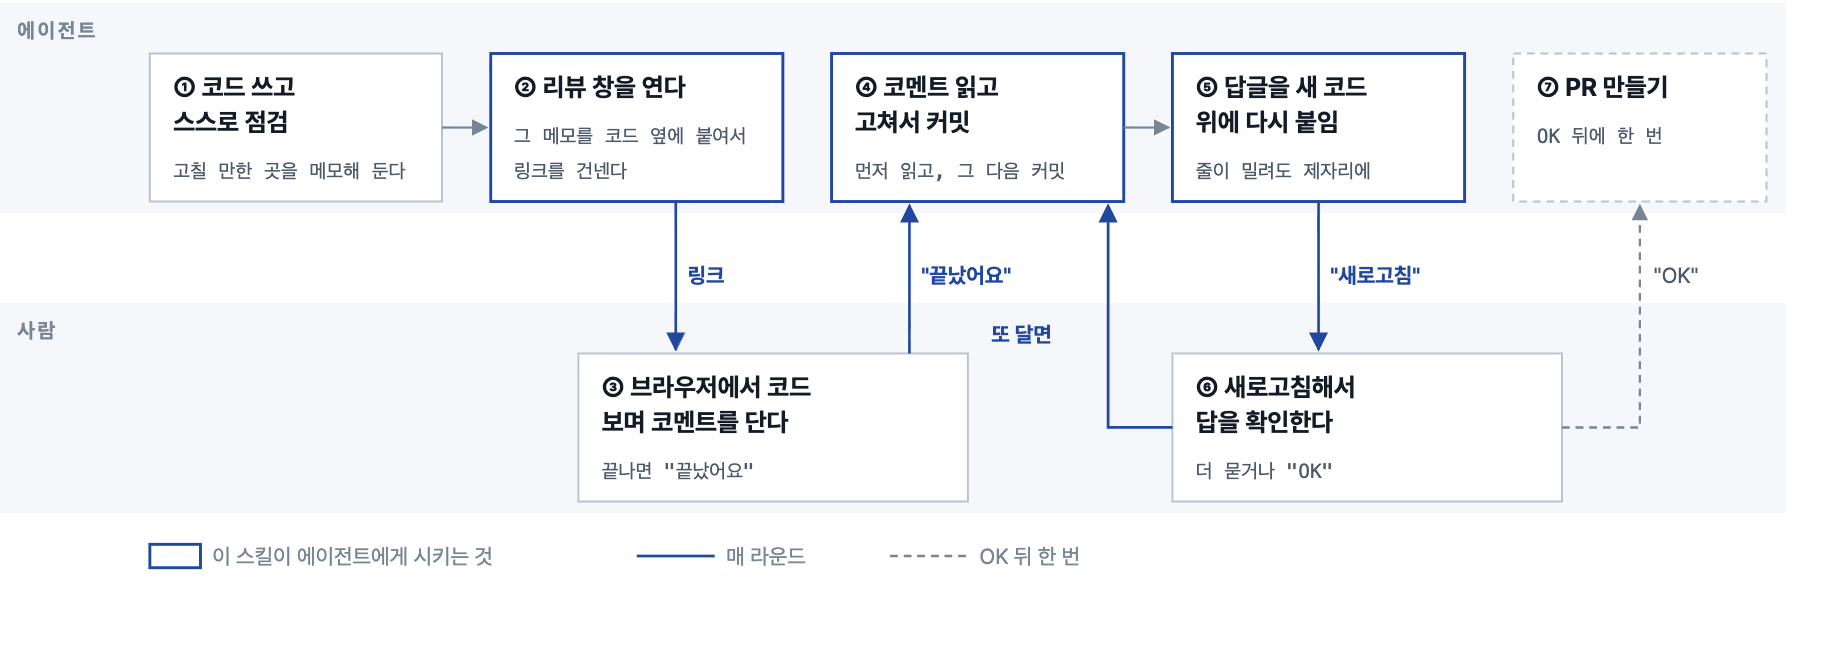
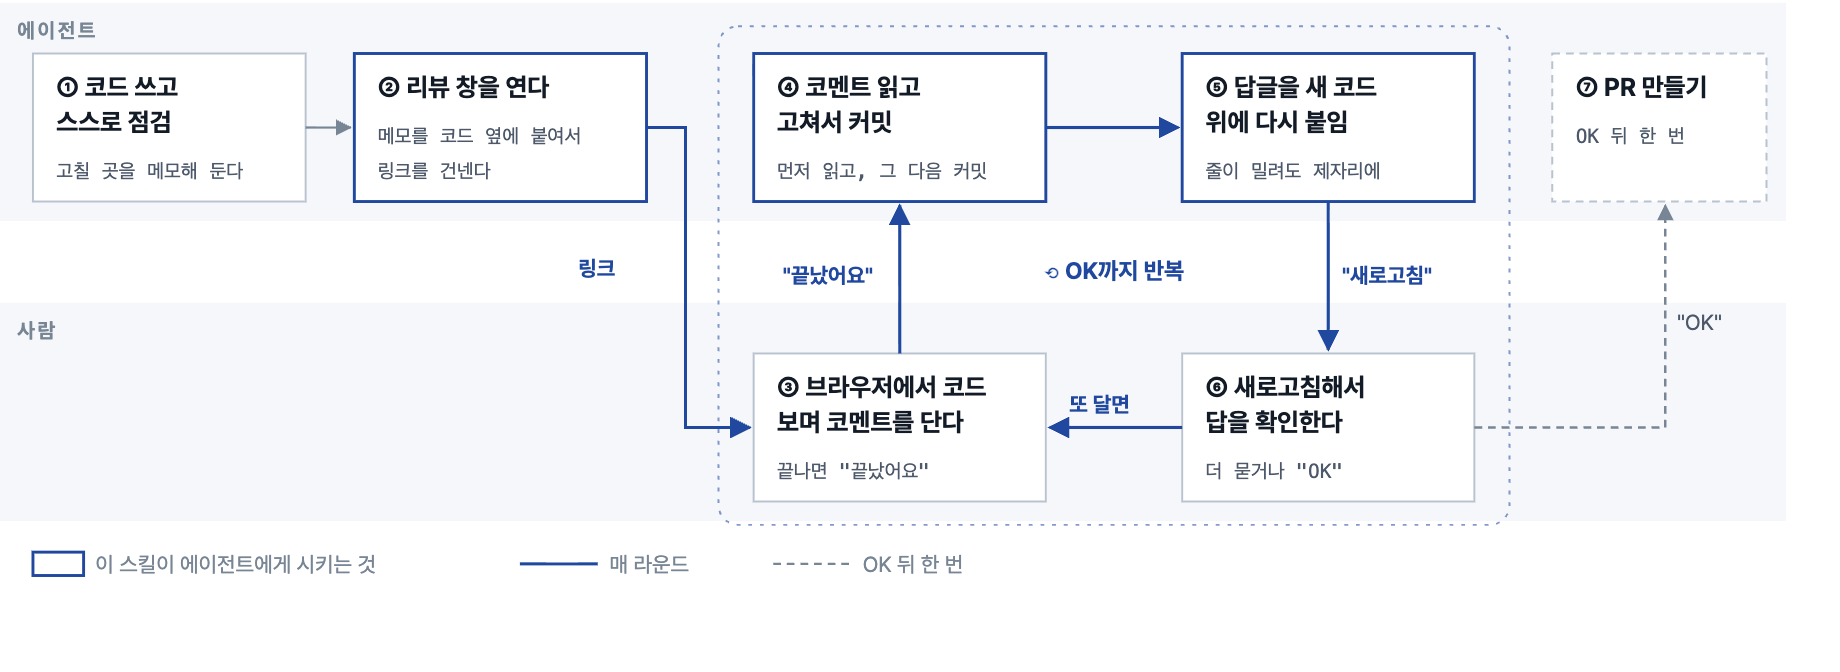
docs: 도식을 ③→④→⑤→⑥ 고리로 — 준비(①②)와 종료(⑦)를 고리 밖으로

diff --git a/README.md b/README.md
@@ -16,8 +16,9 @@ Node ≥ 21이면 difit은 `npx`로 알아서 받는다.
 
 <img src="docs/loop.png" alt="한 라운드 — 에이전트: ① 코드 쓰고 스스로 점검 → ② 리뷰 창을 연다 → ④ 코멘트 읽고 고쳐서 커밋 → ⑤ 답글을 새 코드 위에 다시 붙임 → ⑦ PR 만들기. 사람: ③ 브라우저에서 코드 보며 코멘트를 단다 → 끝났어요 → ⑥ 새로고침해서 답을 확인한다 → 더 묻거나 OK" width="100%">
 
-사람이 하는 일은 ③과 ⑥뿐이다 — **브라우저에서 코드를 보며 코멘트를 달고 "끝났어요"**, 반영을 보고 **더 묻거나 "OK"**.
-나머지는 에이전트가 한다. 파란 테두리가 이 스킬이 에이전트에게 시키는 부분이다.
+점선 상자가 한 라운드다 — ③→④→⑤→⑥이 돌고, OK가 나올 때까지 반복한다. 사람이 하는 일은 ③과 ⑥뿐이다 —
+**브라우저에서 코드를 보며 코멘트를 달고 "끝났어요"**, 반영을 보고 **더 묻거나 "OK"**. 나머지는 에이전트가 한다.
+파란 테두리가 이 스킬이 에이전트에게 시키는 부분이다.
 
 ## 실제 화면
 
